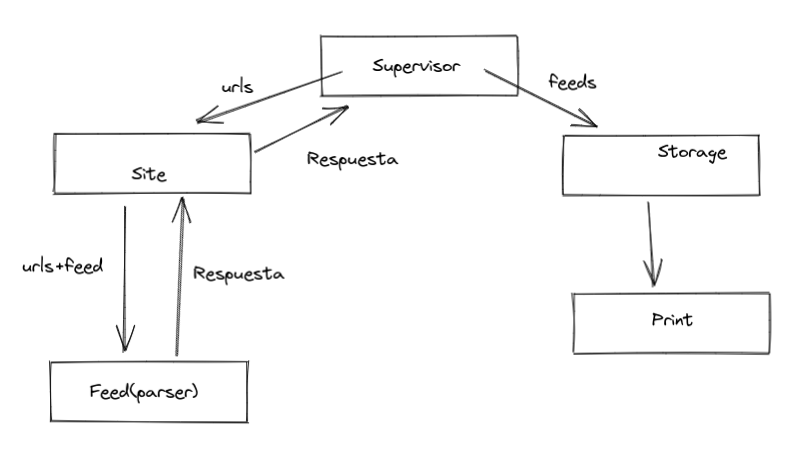
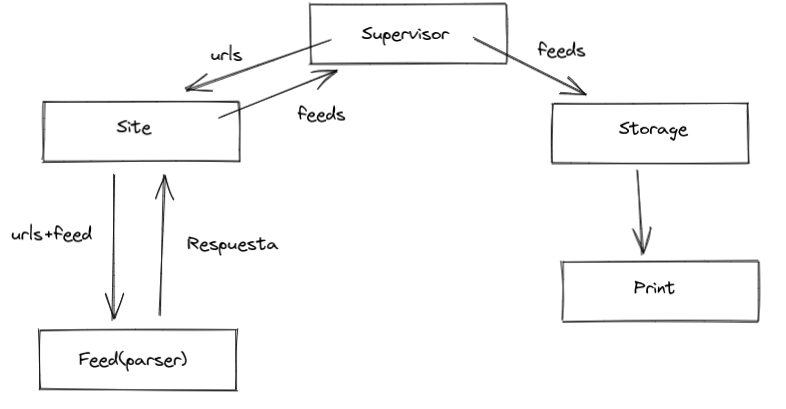
Algunos cambios

Changed region(s): [[0.0, 0.0, 0.9771, 0.9682], [0.2748, 0.1174, 0.3053, 0.1467]]

diff --git a/INFORME.md b/INFORME.md
@@ -8,4 +8,6 @@ Por otra parte, *Site* se encarga de hacer el pedido HTTP a un URL, *feed* parse
 
 ![estructura1](imagenes/struc1.png)
 
+Para la parte 3, cambiamos la estructura de forma que nos permita implementar un *request-responde*. Entonces el resultado de *Feed* se retorna a *Site* y luego se pasa al supervisor, donde este último lo guarda en disco con *storage* como se puede observar en la siguiente imagen.
+
 ![estructura2](imagenes/struc2.png)
